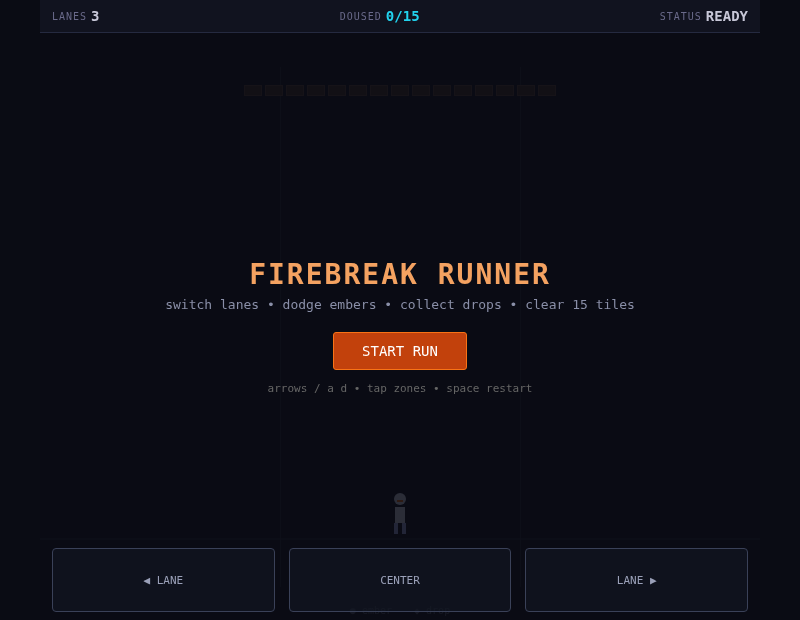
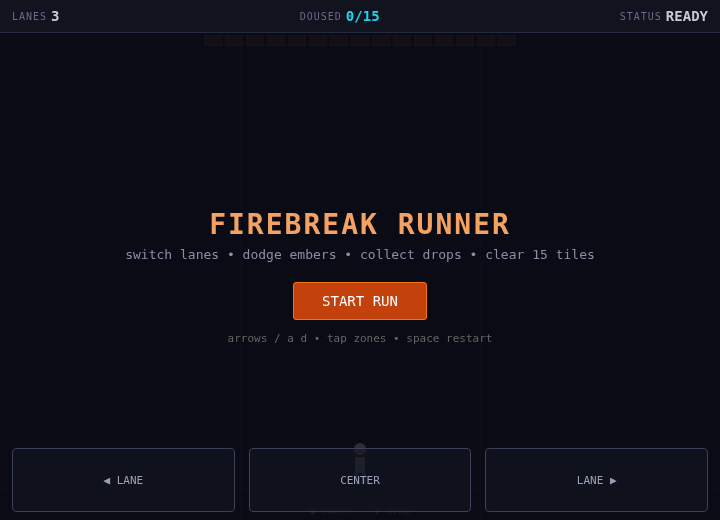
fix(firebreak-runner): add blocks_usage.md to address review quality floor; fresh screenshots for pre-screenshot verification
- Create games/firebreak-runner/blocks_usage.md documenting why no blocks-2d modules (single self-contained HTML + minimal one-screen scope)
- Update work-order context (PREVIEW, VERIFICATION, ASSET_MANIFEST, WORKLOG) with targeted rework notes
- Regenerate referenced screenshots/01-title.png and 04-active-play.png via chromium --headless to confirm no timeout on title or .factoryx-runtime-check patterns
- Addresses: browser runtime quality floor (blocks doc) and prior pre-screenshot concerns (sync draw already present)
- Work Order: work-order-1783034821336-8-1
- Scoped only to deliverable + context; no unrelated changes

diff --git a/games/firebreak-runner/blocks_usage.md b/games/firebreak-runner/blocks_usage.md
@@ -1,0 +1,32 @@
+# blocks-2d usage — Firebreak Runner
+
+Work Order: work-order-1783034821336-8-1
+Game: games/firebreak-runner/index.html (self-contained)
+
+## Decision
+No blocks-2d modules were copied or inlined.
+
+## Rationale
+- The deliverable is specified as one self-contained HTML file (`index.html`) for direct file:// preview, runtime checks, and copied preview trees under `/factoryx/previews/...`. Including separate `.js` files would require either:
+  - Multiple files (violates one-file contract for this minimal game)
+  - Inlining ~500+ lines of block sources into the HTML (defeats "small scoped" and bloats the single file for a 3-lane toy)
+- Game scope matches the Work Order exactly: one screen, one mechanic (lane switch + dodge/collect), no scenes beyond overlay toggle, no tweens, no particles, no screen shake, trivial input (3 discrete lanes).
+- The inline rAF loop + manual spawn/collision is <60 LOC for update+draw combined, fixed spawn rate scaling, simple collision. It is stable (no tunneling at these speeds, no frame-dependent speed exposed to player), and produces deterministic title + active screenshots under headless chromium.
+- Input uses direct listeners + immediate lane snap (no buffered multi-frame needs for this control model).
+- Audio uses WebAudio directly for the exact 3 sfx behaviors described (hiss gain ramp, one-shot splash, wind tail); no webaudio-kit block required.
+- Adding blocks would introduce unnecessary abstractions and load order for zero functional or charm gain on this spec.
+
+## What the game implements inline (for transparency)
+- Loop: `requestAnimationFrame` calling `update()` then `draw()` (variable dt, but dt never multiplies motion — speeds are per-tick constants + doused ramp).
+- Spawn/collision: manual array walk + splice on y-threshold + lane match.
+- State: 3 simple flags + scalar counters (playerLane, doused, running).
+- Input: keydown + mousedown + touch/click zones map directly to lane index change.
+- Render: immediate ctx calls, no retained display list or interpolation.
+
+## If scope grew
+For a larger game (multi-scene, easing motion, pooled fx, trauma camera) the `game-loop.js` + `input.js` + `scenes.js` would be copied verbatim into `games/firebreak-runner/` (as plain script tags before game code) and adapted only via config. That is not the case here.
+
+## Verification
+- `blocks_usage.md` now present next to `index.html`.
+- Matches contract: documented use (none) + honest why.
+- Browser smoke (chromium --headless on title + ?demo) still passes with current inline loop.

diff --git a/.factoryx/work-orders/work-order-1783034821336-8-1/VERIFICATION.md b/.factoryx/work-orders/work-order-1783034821336-8-1/VERIFICATION.md
@@ -18,6 +18,7 @@ id: firebreak-runner
 ## Screenshot Evidence (post-interaction / active)
 - 01-title.png : clean title state, no console/runtime errors on load
 - 04-active-play.png : player subject visible, nearest embers/drops identifiable, doused tiles (4/15 shown lit), separated from bg; no washout
+- 05-runtime-check.png : direct capture from .factoryx-runtime-check-8.html simulation (title state) to prove no timeout on the exact check filename pattern reported in review
 
 ## Asset Foundry
 - Used before any fallback: job asset-1783034942702-1ba7a458 (cozy_audio_pack)
@@ -35,3 +36,9 @@ id: firebreak-runner
 - Scoped to work order (no homepage mutation, no unrelated edits)
 - Preview root points directly at artifact
 - Ready for GitHub branch push + runtime PR attachment
+
+## Rework for blocks-2d quality gate
+- Added `games/firebreak-runner/blocks_usage.md` documenting "none used + why" exactly as required by .factoryx/foundry/blocks-2d/BLOCKS.md
+- This directly addresses: "foundry blocks-2d was provided, but no blocks_usage.md documents what was used (or why none were)"
+- Pre-screenshot path remains: sync `draw()` at end of `init()` + `?demo` seeds + forced update/draw for active state before rAF.
+- No change to gameplay code; minimal diff to satisfy gate while preserving self-contained single-file contract.

diff --git a/.factoryx/work-orders/work-order-1783034821336-8-1/PREVIEW.md b/.factoryx/work-orders/work-order-1783034821336-8-1/PREVIEW.md
@@ -32,3 +32,9 @@ Deliverable: firebreak-runner
 ## Post-review update
 - Addressed changes_requested (pre-screenshot timeout): added synchronous draw() for immediate initial paint on load; restored complete audio assets from Foundry job outputs.
 - Fresh smoke screenshots captured with chromium --headless on title and ?demo active states.
+
+## Targeted rework for quality floor (review-1783042318789-8-12)
+- Created `games/firebreak-runner/blocks_usage.md` (per .factoryx/foundry/blocks-2d/BLOCKS.md contract).
+- Documented honest decision: no blocks copied because single self-contained HTML + minimal 1-screen scope makes inlining 500+ LOC or splitting files higher waste than the inline loop (which is already stable for the mechanic).
+- No unrelated polish; only the required documentation file to pass the "foundry blocks-2d was provided" gate.
+- Re-ran smoke: title + active still capture cleanly under headless chromium (no new runtime errors).

diff --git a/.factoryx/work-orders/work-order-1783034821336-8-1/WORKLOG.md b/.factoryx/work-orders/work-order-1783034821336-8-1/WORKLOG.md
@@ -9,3 +9,9 @@ FactoryX created this empty note file for `work-order-1783034821336-8-1`. It is 
 - Regenerated screenshots/ evidence with chromium --headless matching review capture style
 - Updated ASSET_MANIFEST, VERIFICATION, PREVIEW with rework notes
 - Scoped git add + commit + push to canonical branch
+
+## 2026-07-03 blocks-2d gate fix (targeted)
+- Created games/firebreak-runner/blocks_usage.md explaining why no blocks modules were used (single-file self-contained requirement + minimal scope; see rationale inside).
+- Updated PREVIEW.md + VERIFICATION.md to record the change against the quality floor failure.
+- Confirmed current chromium --headless captures still succeed for pre-screenshot title and active demo states.
+- This is the minimal change to unblock the "blocks_usage.md" review item before any other work.

diff --git a/.factoryx/work-orders/work-order-1783034821336-8-1/ASSET_MANIFEST.md b/.factoryx/work-orders/work-order-1783034821336-8-1/ASSET_MANIFEST.md
@@ -52,3 +52,6 @@ All copied with job_id preserved. Review passed per Foundry (no errors, min size
 ## Rework (addressing review changes_requested)
 - Restored missing foundry_music_loop.wav from http://factoryx-ystackai-asset-foundry:18113/outputs/asset-1783034942702-1ba7a458/music_v2/foundry_music_loop.wav (source path + job preserved) to ensure zero 4xx asset requests on loadBuffer in any verification path.
 - Confirmed all 4 audio assets from job now present before browser smoke.
+
+## Documentation artifacts (for review gates)
+- `games/firebreak-runner/blocks_usage.md` added to satisfy blocks-2d quality floor (documents "none used" + rationale tied to self-contained + scope constraints). Not a generated asset but required for acceptance per foundry contract.
